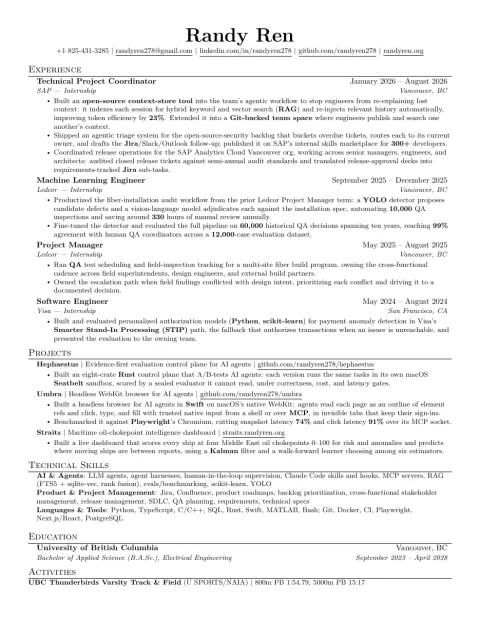
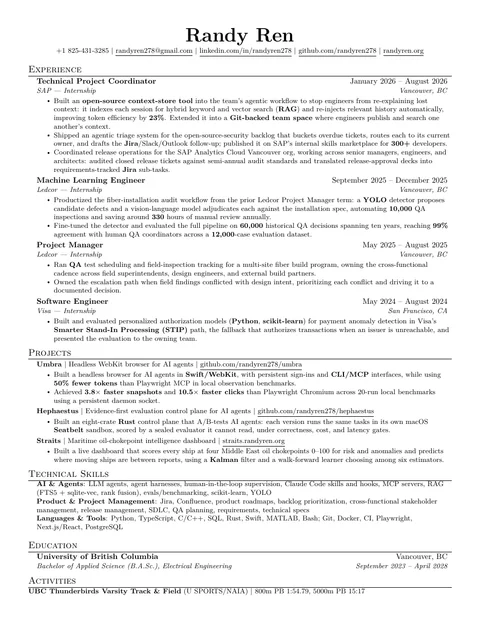
content(resume): lead with Umbra and refresh benchmark bullets

Changed region(s): [[0.0625, 0.5813, 0.9375, 0.9791], [0.4688, 0.0612, 0.5, 0.0918]]

diff --git a/site/src/content/data.ts b/site/src/content/data.ts
@@ -109,7 +109,7 @@ github    randyren278
 linkedin  /in/randyren278
 location  VANCOUVER, BC, PT/GMT-8`;
 
-const RESUME_VERSION = 'cb845b3c1ef3';
+const RESUME_VERSION = 'f13a48092e2c';
 
 export const RESUME = {
   name: 'Randy Ren',
